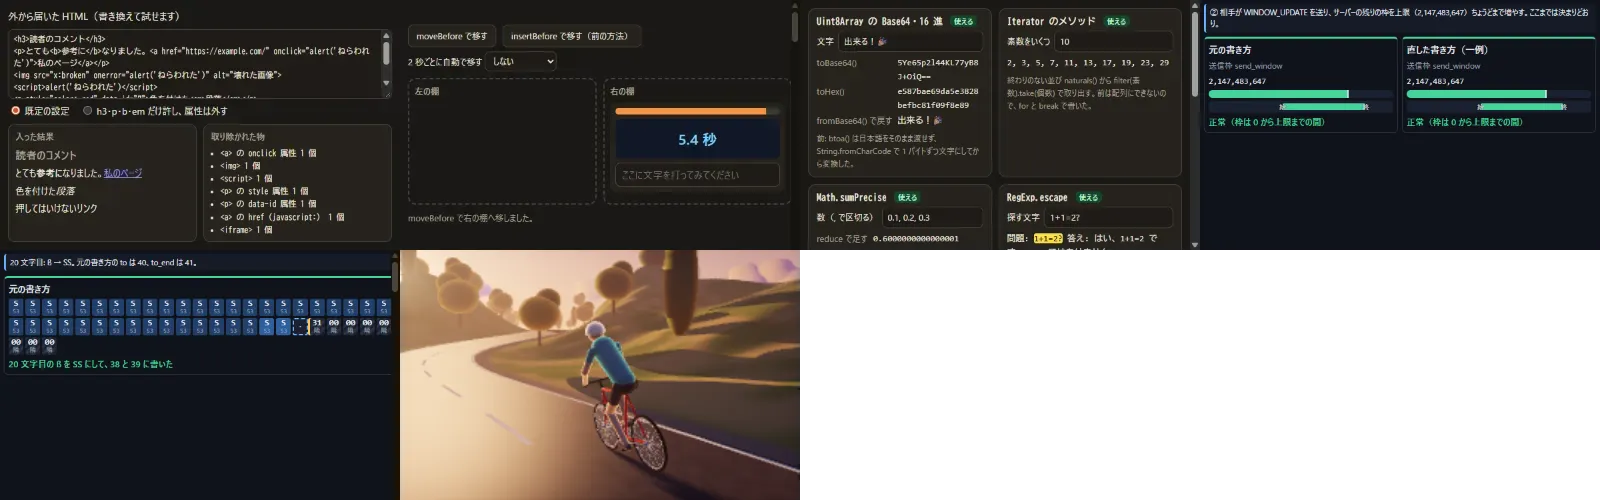
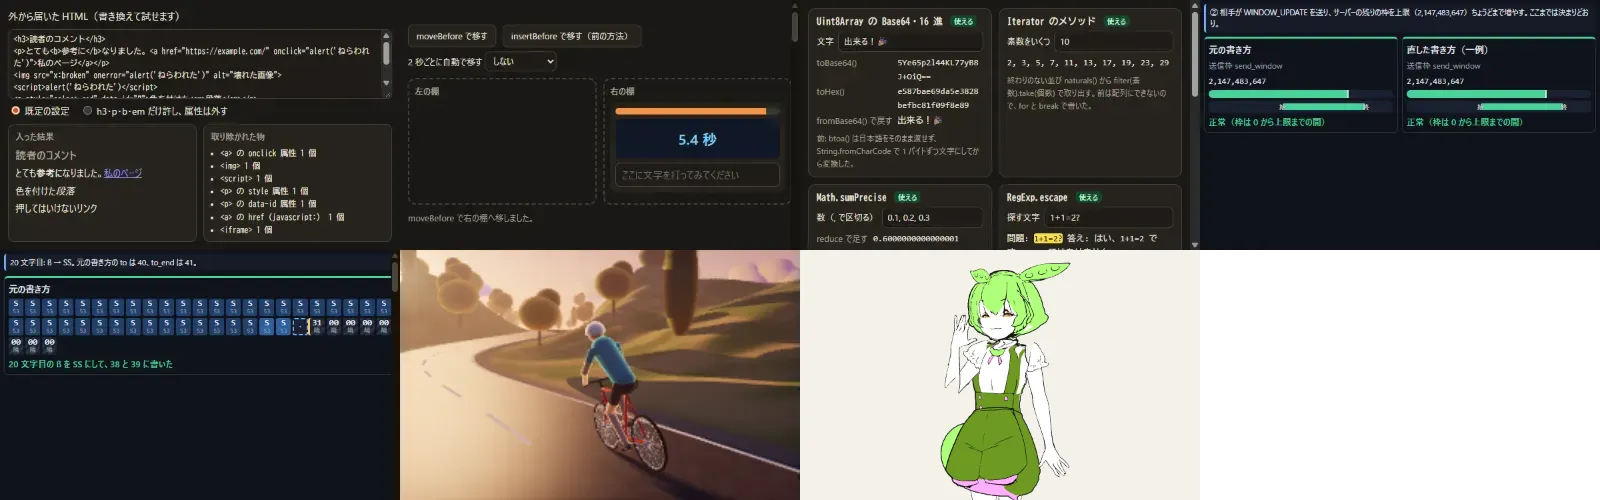
一覧の静止画: ずんだもんの項目を、main のシートの上で撮り直す

Changed region(s): [[0.5625, 0.51, 0.6875, 1.0]]

diff --git a/js/thumbs.js b/js/thumbs.js
@@ -1,5 +1,5 @@
 // 一覧のカードの静止画の目録。node tools/thumbs.mjs が作る。手で直さない
-window.DEKIRU_THUMBS = {"v":1,"w":400,"h":250,"cols":4,"rows":2,"sheets":["68d72c","4e08da","19ffa2","dd35ff","dd3a9c","60fbf0","63e81e","b7a4d3","686b21","92cefe","eb8186","f2066e","45a218","2a91ab","37d693","24ab4a","5a54cd","f752e7","d5e527","6c6f03","a925dd","52db0c","cf580e","4ff3cb","e52822","8d4c85","86cb75","aea336","88ed5d","d743dc","151077","a2a63d","026310","3bb873","eda318","f2d7f7","5b432b","315430","5da556","f6d5b0","4c1b0f","a1602a","17a31a","899807","4aa5ef","74e1f4","5c3a3a","18757a","ce7b78","9b8854","d15b89","b18e2c","f68cc0","50dd37","d7bec3","1b14a4","c3c5fd","fbea8e","9b356e","5efb07","b5f169","62dca2","ac9907"],"at":{
+window.DEKIRU_THUMBS = {"v":1,"w":400,"h":250,"cols":4,"rows":2,"sheets":["68d72c","4e08da","19ffa2","dd35ff","dd3a9c","60fbf0","63e81e","b7a4d3","686b21","92cefe","eb8186","f2066e","45a218","2a91ab","37d693","24ab4a","5a54cd","f752e7","d5e527","6c6f03","a925dd","52db0c","cf580e","4ff3cb","e52822","8d4c85","86cb75","aea336","88ed5d","d743dc","151077","a2a63d","026310","3bb873","eda318","f2d7f7","5b432b","315430","5da556","f6d5b0","4c1b0f","a1602a","17a31a","899807","4aa5ef","74e1f4","5c3a3a","18757a","ce7b78","9b8854","d15b89","b18e2c","f68cc0","50dd37","d7bec3","1b14a4","c3c5fd","fbea8e","9b356e","5efb07","b5f169","62dca2","4f99cb"],"at":{
 "tr-20261119-partial-eval":[60,0,"d237915398"],
 "tr-20261119-h2-window-underflow":[62,3,"5437b6d605"],
 "tr-20261119-upcase-overflow":[62,4,"9067f99f81"],
@@ -105,6 +105,7 @@ window.DEKIRU_THUMBS = {"v":1,"w":400,"h":250,"cols":4,"rows":2,"sheets":["68d72
 "3d-vroid-toon":[12,0,"0255b0961b"],
 "3d-vroid-motion":[12,1,"63aab2e7fa"],
 "3d-vroid-shore":[12,2,"6a2efe1ff4"],
+"3d-zunda-move":[62,6,"b3fb6c4e4a"],
 "astra-fold-map":[58,7,"01b42aa076"],
 "cv-paint":[12,3,"70672b37e2"],
 "cv-flowfield":[12,4,"4fb1c2eb2f"],
